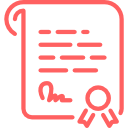
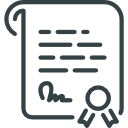
update style of cards

diff --git a/src/containers/Swipe.js b/src/containers/Swipe.js
@@ -1,47 +1,35 @@
 'use strict';
 
-//image url https://graph.facebook.com/userid/picture?type=large
+//our colors: ['#1A354A', '#226065', '#277D7B']
+
+//image url https://graph.facebook.com/774635482/picture?width=300&height=300
 
 import React, {Component} from 'react'
 import {StyleSheet, Text, View, Image} from 'react-native';
 import SwipeCards from 'react-native-swipe-cards';
-
-import { getTheme, menu, MKButton, MKColor } from 'react-native-material-kit';
-
-const theme = getTheme();
-const PlainFab = MKButton.coloredFab()
-  .withStyle({
-    width: 60,
-    height: 60,
-    borderRadius: 100,
-    position: 'relative',
-    left: 110,
-    top: 50,
-    margin: 10
-   })
-  .build();
-
+import LinearGradient from 'react-native-linear-gradient'
 
 let Card = React.createClass({
   render() {
     return (
-      <View>
-        <View style={theme.cardStyle}>
-          <Image source={{uri : this.props.image}} style={theme.cardImageStyle} />
-          <View style={{flexDirection: 'row'}}>
-            <Text style={styles.nameText}>Freddie, </Text>
-            <Text style={styles.ageText}>23</Text>
-          </View>
-          <View style={{flexDirection: 'row'}}>
-            <Image style={styles.gradCapIcon} source={require('../../assets/gradcap.png')} />
-            <Text style={{marginTop: 11, fontSize: 10}}>University of California, Los Angeles</Text>
-          </View>
-          <View style={{flexDirection: 'row'}}>
-            <Image style={styles.diplomaIcon} source={require('../../assets/diploma.png')} />
-            <Text style={{marginTop: 11, fontSize: 10}}>Computer Science</Text>
-          </View>
-          <View style={{marginTop: 20}}></View>
+      <View style={styles.card}>
+        <Image style={styles.thumbnail} source={{uri: this.props.image}} />
+        <View style={{flexDirection: 'row'}}>
+          <Text style={styles.nameText}>Ryan </Text><Text style={styles.ageText}>| 24</Text>
         </View>
+        <View style={{flexDirection: 'row', position: 'relative', left: 10, marginTop: 10}}>
+          <Image style={{height: 20, width: 20, marginRight: 10}} source={require('../../assets/earth-globe.png')} />
+          <Text style={{color: '#344145'}}>Los Angeles, CA</Text>
+        </View>
+        <View style={{flexDirection: 'row', position: 'relative', left: 10, marginTop: 10}}>
+          <Image style={{height: 20, width: 20, marginRight: 10}} source={require('../../assets/gradcap.png')} />
+          <Text style={{color: '#344145'}}>University of California, Los Angeles</Text>
+        </View>
+        <View style={{flexDirection: 'row', position: 'relative', left: 10, marginTop: 10, marginBottom: 15}}>
+          <Image style={{height: 20, width: 20, marginRight: 10}} source={require('../../assets/diploma.png')} />
+          <Text style={{color: '#344145'}}>Computer Science</Text>
+        </View>
+
       </View>
     )
   }
@@ -58,7 +46,7 @@ let NoMoreCards = React.createClass({
 })
 
 const Cards = [
-  {name: '1', image: 'https://scontent.xx.fbcdn.net/v/t1.0-1/p200x200/1979601_773084782761077_6142668661562675962_n.jpg?oh=4fadac9658e02f254ac33f583abe4d49&oe=585830E0'},
+  {name: '1', image: 'https://media.licdn.com/mpr/mpr/shrinknp_400_400/AAEAAQAAAAAAAAhRAAAAJDhlOTkyMzlhLTAxMGEtNGU1Mi1hNThlLTQ4MjIzMDA1ZmJiYw.jpg'},
   {name: '2', image: 'https://media.giphy.com/media/irTuv1L1T34TC/giphy.gif'},
   {name: '3', image: 'https://media.giphy.com/media/LkLL0HJerdXMI/giphy.gif'},
   {name: '4', image: 'https://media.giphy.com/media/fFBmUMzFL5zRS/giphy.gif'},
@@ -111,14 +99,13 @@ export default React.createClass({
   },
   render() {
     return (
-      <View style={{backgroundColor: '#E9F2F6', flex: 1}}>
-        <View style={{flexDirection: 'row', marginBottom: 10}}>
-          <Image style={styles.userIcon} source={require('../../assets/user.png')} />
-          <View style={{flexDirection: 'row'}}>
-            <Text style={styles.studyText}>Studdy</Text>
-            <Text style={styles.hubbText}>Hubb</Text>
+      <LinearGradient colors={['white', '#F4F7F7']} style={{flex: 1}}>
+        <View style={{flexDirection: 'row', marginTop: 28}}>
+          <Image style={{height: 23, width: 23, position: 'absolute', left: 25, top: 10 }} source={require('../../assets/user.png')} />
+          <View style={{flexDirection: 'row', position: 'absolute', left: 145, top: 10}}>
+            <Text style={{backgroundColor: 'transparent', color: '#28CF9B', fontFamily: 'Tabarra Black', fontSize: 18}} >Study</Text><Text style={{backgroundColor: 'transparent', color: '#28CF9B', fontFamily: 'Tabarra Black', fontSize: 18}} >Hubb</Text>
           </View>
-          <Image style={styles.messageBoxIcon} source={require('../../assets/speech-bubble.png')} />
+          <Image style={{height: 23, width: 23, position: 'absolute', right: 25, top: 10}} source={require('../../assets/chat.png')} />
         </View>
         <SwipeCards
           cards={this.state.cards}
@@ -133,38 +120,35 @@ export default React.createClass({
           handleNope={this.handleNope}
           cardRemoved={this.cardRemoved}
         />
-        <View style={{flexDirection: 'row', backgroundColor: 'transparent', position: 'relative', bottom: 110}}>
-          <PlainFab onPress={this.cardRemoved.bind(this, 0)}>
-            <Image style={styles.cancelIcon} pointerEvents="none" source={require('../../assets/cancel-music.png')} />
-          </PlainFab>
-          <PlainFab>
-            <Image style={styles.bookIcon} pointerEvents="none" source={require('../../assets/books.png')} />
-          </PlainFab>
-        </View>
-      </View>
+      </LinearGradient>
     )
   }
 })
 
 const styles = StyleSheet.create({
   card: {
-    borderRadius: 5,
-    overflow: 'hidden',
-    backgroundColor: 'white'
+    flex: 1,
+    backgroundColor: '#ffffff',
+    borderRadius: 2,
+    borderColor: '#ffffff',
+    borderWidth: 1,
+    shadowColor: 'rgba(0, 0, 0, 0.12)',
+    shadowOpacity: 0.8,
+    shadowRadius: 2,
+    shadowOffset: {
+      height: 2,
+      width: 1,
+    }
   },
   thumbnail: {
     flex: 1,
     width: 300,
-    height: 375,
-    shadowColor: 'black',
-    shadowOffset: {width: 0, height: 2},
-    shadowRadius: 2,
-    shadowOpacity: 1.0
+    height: 300
   },
   text: {
     fontSize: 20,
     paddingTop: 10,
-    paddingBottom: 10,
+    paddingBottom: 10
   },
   noMoreCards: {
     flex: 1,
@@ -172,77 +156,19 @@ const styles = StyleSheet.create({
     alignItems: 'center',
   },
   nameText: {
-    color: '#544F5D',
-    fontWeight: '600',
-    marginTop: 18
+    color: '#344145',
+    fontSize: 20,
+    position: 'relative',
+    left: 10,
+    marginTop: 15,
+    fontWeight: '300'
   },
   ageText: {
-    color: '#858BA0',
-    marginTop: 18
-  },
-  diplomaIcon: {
+    color: '#344145',
+    fontSize: 20,
     position: 'relative',
-    right: 8,
-    marginTop: 10,
-    height: 19,
-    width: 19
-  },
-  gradCapIcon: {
-    position: 'relative',
-    right: 8,
-    marginTop: 10,
-    height: 20,
-    width: 20,
-    paddingBottom: 10
-  },
-  userIcon: {
-    position: 'relative',
-    top: 35,
-    left: 13,
-    height: 30,
-    width: 30
-  },
-  messageBoxIcon: {
-    position: 'relative',
-    top: 35,
-    right: -140,
-    height: 30,
-    width: 30
-  },
-  studyText: {
-    position: 'relative',
-    top: 35,
-    left: 75,
-    backgroundColor: 'transparent',
-    fontSize: 28,
-    color: '#F03557',
-    fontFamily: 'Tabarra NarrowLight'
-  },
-  hubbText: {
-    position: 'relative',
-    top: 35,
-    left: 75,
-    backgroundColor: 'transparent',
-    fontSize: 28,
-    color: '#F03557',
-    fontFamily: 'Tabarra Black'
-  },
-    buttonText: {
-    fontSize: 14,
-    fontWeight: 'bold',
-    color: 'white',
-  },
-  fab: {
-    width: 200,
-    height: 200,
-    borderRadius: 100,
-  },
-  cancelIcon: {
-    height: 30,
-    width: 30
-  },
-  bookIcon: {
-    height: 35,
-    width: 35
+    left: 10,
+    marginTop: 15,
+    fontWeight: '100'
   }
 })

diff --git a/src/Root.js b/src/Root.js
@@ -36,7 +36,7 @@ class Root extends Component {
 
   render() {
       const { splash } = this.state
-      return splash ? this.renderRoot(Swipe) : this.renderRoot(Login)
+      return splash ? this.renderRoot(Profile) : this.renderRoot(Login)
   }
 }
 

diff --git a/src/containers/Profile.js b/src/containers/Profile.js
@@ -3,6 +3,7 @@
 import React, { Component } from 'react'
 import { View, Text, StyleSheet } from 'react-native'
 
+
 class Profile extends Component {
   render() {
     return (

diff --git a/android/app/src/main/java/com/studyhubbmobile/MainActivity.java b/android/app/src/main/java/com/studyhubbmobile/MainActivity.java
@@ -1,7 +1,6 @@
 package com.studyhubbmobile;
 
 import com.facebook.react.ReactActivity;
-import com.github.xinthink.rnmk.ReactMaterialKitPackage;
 import com.BV.LinearGradient.LinearGradientPackage;
 
 public class MainActivity extends ReactActivity {
